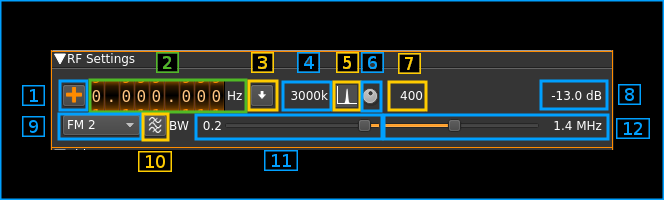
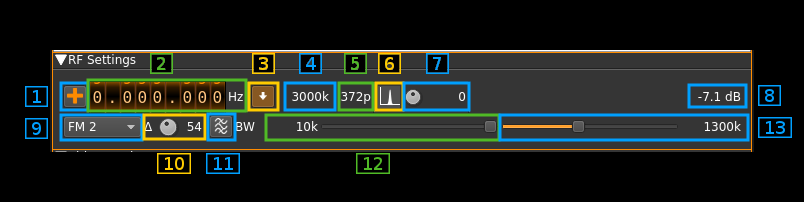
ATV Demod: updated documentation

Changed region(s): [[0.0, 0.0, 1.0, 1.0]]

diff --git a/plugins/channelrx/demodatv/readme.md b/plugins/channelrx/demodatv/readme.md
@@ -13,8 +13,8 @@ The whole bandwidth available to the channel is used. That is it runs at the dev
 The interface is divided into three collapsable sections:
 
   - A: the RF settings
-  - B: the video screen
-  - C: the video settings
+  - B: the video settings
+  - C: the video monitor and scope
 
 Each part is detailed next
 
@@ -36,31 +36,31 @@ Use this toggle button to enable or disable the rational downsampler.
 
 Without downsampling the sample rate given by the source plugin is directly applied to the channel.
 
-When the downsampler is engaged the channel sample rate is the closest integer MS/s below the source sample rate. e.g for a source sample rate of 3.2 MS/s this will be 3 MS/s. If a positive number of MS/s cannot be obtained the decimator is disabled and the source sample rate is used instead. 
+When the downsampler is engaged the channel sample rate is the closest multiple of 0.5 MS/s below the source sample rate. e.g for a source sample rate of 3.2 MS/s this will be 3 MS/s. If a non null sample rate cannot be obtained the decimator is disabled and the source sample rate is used instead. 
 
-When the downsampler is engaged the signal is lowpass filtered and the cutoff frequency can be adjusted with the in band filter cutoff slider (12). This works also when the decimation ratio is 1.0 e.g source sample rate is 3 MS/s.
+When the downsampler is engaged the signal is lowpass filtered and the cutoff frequency can be adjusted with the in band filter cutoff slider (13). This works also when the decimation ratio is 1.0 e.g source sample rate is 3 MS/s.
 
 <h3>4: Channel sample rate</h3>
 
 This is the channel sample rate in kS/s possibly downsampled from source when rational downsampler is engaged (3).
 
-<h3>5: BFO PLL lock indicator</h3>
+<h3>5: Number of points (or samples) per line</h3>
+
+This is the number of points or samples per complete line including sync and black porchs.
+
+<h3>6: BFO PLL lock indicator</h3>
 
 Warning: this is experimental.
 
 When single sideband demodulation is selected (USB, LSB) the BFO is phased locked to the carrier. This indicator turns green if the PLL is locked.
 
-<h3>6: BFO frequency adjustment</h3>
+<h3>7: BFO frequency adjustment</h3>
 
 Warning: this is experimental.
 
-This allows adjstment of BFO frequency in 10 Hz steps from -5 to +5 kHz. You will have to look for the right value to lock to the carrier. See (5) for the lock indicator.
+This allows adjstment of BFO frequency in 10 Hz steps from -5 to +5 kHz. You will have to look for the right value to lock to the carrier. See (6) for the lock indicator.
 
-<h3>7: BFO frequency</h3>
-
-Warning: this is experimental.
-
-This is the BFO base frequency in Hz. Actual frequency may change acoording to PLL locking to the carrier.
+The BFO base frequency in Hz appears on the right. Actual frequency may change acoording to PLL locking to the carrier.
 
 <h3>8: Channel power</h3>
 
@@ -70,6 +70,7 @@ Average total power in dB relative to a &#177;1.0 amplitude signal generated in 
 
   - FM1: this is Frequency Modulation with approximative demodulation algorithm not using atan2
   - FM2: this is Frequency Modulation with less approximative demodulation algorithm still not using atan2
+  - FM3: this is Frequency Modulation with atan2 approximation
   - AM: this is Amplitude Modulation
   - USB: USB demodulation synchronous to the carrier
   - LSB: USB demodulation synchronous to the carrier
@@ -78,81 +79,116 @@ For FM choose the algorithm that best suits your conditions.
 
 USB and LSB modes are experimental and do not show good results for present standards sample rates.
 
-<h3>10: FFT asymmetrical filter toggle</h3>
+<h3>10: FM excursion adjustment</h3>
+
+Using this button you can adjust the nominal FM excursion as a percentage of the channel bandwidth that is displayed on the right of the button. When a signal with this excursion is received the demodulated signal is in the range -0.5/+0.5 which is shifted to a 0/1 range video signal.
+
+Note that the value is accurate only with the atan2 differential demodulator i.e. FM3. With FM1 and FM2 you will have to adjust it for best image results. You can use the scope as an aid to try to fit the video signal in the 0/1 range.   
+
+<h3>11: FFT asymmetrical filter toggle</h3>
 
 Use this button to enable/disable the FFT asymmetrical filter.
 
-<h3>11: FFT asymmetrical filter opposite band cutoff frequency</h3>
+<h3>12: FFT asymmetrical filter opposite band cutoff frequency</h3>
 
 For all modulations except LSB this is the lower side band.
 
 This slider lets you adjust the opposite band cutoff frequency of the FFT asymmetrical filter. The value in MHz appears on the left of the slider.
 
-<h3>12: FFT asymmetrical filter in band cutoff frequency</h3>
+<h3>13: FFT asymmetrical filter in band cutoff frequency</h3>
 
 For all modulations except LSB this is the upper side band.
 
 This slider lets you adjust the in band cutoff frequency of the FFT asymmetrical filter. The value in MHz appears on the left of the slider.
 
-If the rational downsampler is engaged (3) and the FFT filter is not engaged (10) this slider controls the downsampler cutoff frequency.
+If the rational downsampler is engaged (3) and the FFT filter is not engaged (11) this slider controls the downsampler cutoff frequency.
 
-<h2>B: Image</h2>
+<h2>B: Video settings</h2>
 
-This is where the TV image appears. Yes on the screenshot this is the famous [Lenna](https://en.wikipedia.org/wiki/Lenna). The original image is 512 &#215; 512 pixels so it has been cropped to fit the 4:3 format. The screen geometry ratio is fixed to 4:3 format.
+![ATV Demodulator plugin GUI Video settings](../../../doc/img/ATVDemod_pluginB.png)
 
-<h2>C: Video settings</h2>
+<h3>1: Nominal number of lines</h3>
 
-![ATV Demodulator plugin GUI Video settings](../../../doc/img/ATVDemod_pluginC.png)
+This is the total number of lines including all possible synchronization signals.
 
-<h3>1: Frames Per Second</h3>
+Choice is between 625, 525 and 405 lines. The number of image lines depends on the synchronization scheme.
 
-This combo lets you chose between a 25 FPS or 30 FPS standard.
+<h3>2: Frames Per Second</h3>
 
-  - 25 FPS corresponds to the PAL 625 lines standard (PAL B,G,I,L)
-  - 30 FPS corresponds to the PAL 525 lines standard (PAL M)
+This combo lets you chose between a 30, 25, 20 and 16 FPS. This is the resulting FPS. In interleaved modes the half frame rate is doubled.
 
-<h3>2: Horizontal sync</h3>
+<h3>3: Synchronization standard</h3>
+
+This combo lets you set the standard type relating essentially to frame synchronization. Choice is between:
+
+  - PAL625L: this is based on the classical 625 lines PAL system. It uses 7 or 8 synchronization lines depending on the half frame (field). It has also 17 black lines on the top of each half frame.
+  - PAL525L: the only difference with PAL625L is the number of black lines which is down to 15
+  - 405L: this is not the British standard. It just follows the same sheme as the two above but with only 7 black lines per half frame
+
+<h3>4: Horizontal sync</h3>
 
 Check/uncheck this box to toggle horizontal synchronization processing.
 
-<h3>3: Vertical sync</h3>
+<h3>5: Vertical sync</h3>
 
 Check/uncheck this box to toggle vertical synchronization processing.
 
-<h3>4: Invert video</h3>
+<h3>6: Invert video</h3>
 
 Check/uncheck this box to toggle video signal inversion. This does not work well in AM for now.
 
-<h3>5: Half frames</h3>
+<h3>7: Half frames</h3>
 
 Check this box to render only half of the frames for slow processors.
 
-<h3>6: Reset defaults</h3>
+<h3>8: Reset defaults</h3>
 
 Use this push button to reset values to a standard setting:
 
   - FM1 modulation
+  - 625 lines
   - 25 FPS
+  - PAL 625L standard
   - Horizontal and vertical syncs active
   - No video inversion
   - Interlacing
   - 100 mV sync level
   - 310 mV black level
   - 64 microsecond line length
-  - 3 microsecond sync length
+  - 4.7 microsecond sync pulse length
   
-<h3>7: Synchronization level</h3>
+<h3>9: Synchronization level</h3>
 
 Use this slider to adjust the top level of the synchronization pulse on a 0 to 1V scale. The value in mV appears on the right of the slider. Nominal value: 100 mV.
 
-<h3>8: Black level</h3>
+<h3>10: Black level</h3>
 
 Use this slider to adjust the black level of the video signal on a 0 to 1V scale. The value in mV appears on the right of the slider. Nominal value: 310 mV.
 
-<h3>9: Line length</h3>
+<h3>11: Line length</h3>
 
 This is the line length in time units. The value in microseconds appears on the right of the slider. Nominal value: 64 microseconds.
 
-<h3>10: Top length</h3>
+<h3>12: Horizontl synchronization pulse length</h3>
 
 This is the length in time units of a synchronization top. The value in microseconds appears on the right of the slider. Nominal value 3 microseconds.
+
+<h2>C: Image</h2>
+
+<h3>Monitor</h3>
+
+Select monitor with the monitor tab on the left side.
+
+![ATV Demodulator plugin GUI Video monitor](../../../doc/img/ATVDemod_pluginC_monitor.png)
+
+This is where the TV image appears. Yes on the screenshot this is the famous [Lenna](https://en.wikipedia.org/wiki/Lenna). The original image is 512 &#215; 512 pixels so it has been cropped to fit the 4:3 format. The screen geometry ratio is fixed to 4:3 format.
+
+<h3>Scope</h3>
+
+Select scope with the scope tab on the left side.
+
+![ATV Demodulator plugin GUI Video scope](../../../doc/img/ATVDemod_pluginC_scope.png)
+
+This is a scope widget fed with the video signal. Controls of the scope are the same as with the ChannelAnalyzerNG plugin. Please refer to the [readme](https://github.com/f4exb/sdrangel/tree/master/plugins/channelrx/chanalyzerng) of this plugin for more details.
+
+Note that the video signal is a real signal so the imaginary part is always null. In fact only the "Real" mode for the trace and trigger is interesting.
